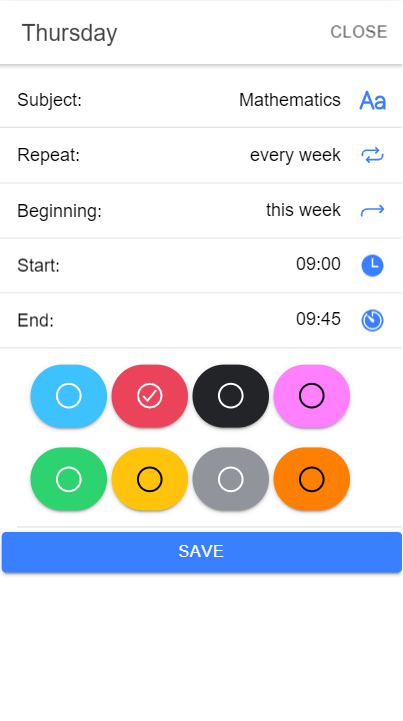
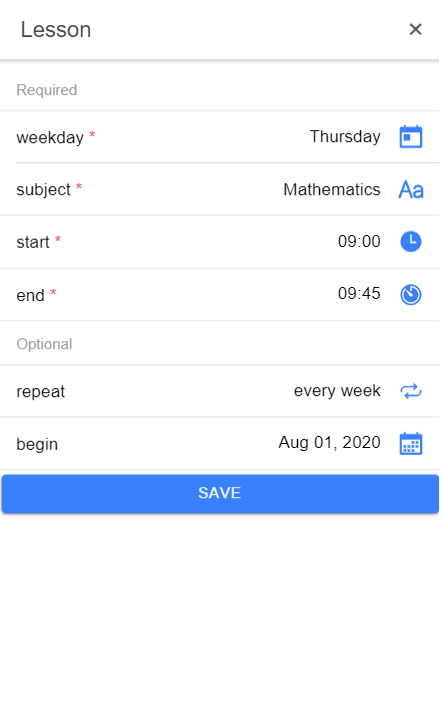
Extension to Major Update

diff --git a/src/app/modal/modal-slides/modal-slides.page.html b/src/app/modal/modal-slides/modal-slides.page.html
@@ -30,7 +30,7 @@
           <img src="assets/slides/add.png"/>
           <div class="ion-margin">
             <h2 class="ion-margin"><u>When adding a Lesson</u></h2>
-            <p class="ion-margin">Fill out the form, choose a lesson color and press save.</p>
+            <p class="ion-margin">Choose the day, subject & time frame then press save.</p>
           </div>
         </ion-row>
       </ion-grid>
@@ -42,7 +42,7 @@
           <img src="assets/slides/secondWeek.png"/>
           <div class="ion-margin">
             <h2 class="ion-margin"><u>Customize Schedule</u></h2>
-            <p class="ion-margin">When adding a lesson pick one of the <b>Repeat</b> options to repeat that lesson accordingly.</p>
+            <p class="ion-margin">When adding a lesson pick one of the <b>Repeat</b> options to repeat that lesson accordingly (optional).</p>
           </div>
         </ion-row>
       </ion-grid>
@@ -54,7 +54,7 @@
           <img src="assets/slides/repeat.png"/>
           <div class="ion-margin">
             <h2 class="ion-margin"><u>Starting Week</u></h2>
-            <p class="ion-margin">Pick the week when the lesson should initially <b>Start</b>.</p>
+            <p class="ion-margin">Pick a Date when the lesson should initially <b>Start</b> (optional).</p>
           </div>
         </ion-row>
       </ion-grid>

diff --git a/src/app/home/home.page.ts b/src/app/home/home.page.ts
@@ -80,7 +80,7 @@ export class HomePage{
           'startingDate': array.startingDate,
           'fromTime': array.timeFrame.fromTime,
           'toTime': array.timeFrame.toTime,
-          'lessonList': this.lessonList,
+          'lessonList': this.timetable.getAllLessons(),
           'edit': true
         }
       }
@@ -90,7 +90,7 @@ export class HomePage{
         component: ModalAddPage,
         cssClass: 'my-custom-modal-css',
         componentProps: {
-          'lessonList': this.lessonList,
+          'lessonList': this.timetable.getAllLessons(),
           'edit': false
         }
       }
@@ -158,7 +158,6 @@ export class HomePage{
             }
           }
         });
-        // this.lessonList = sortedArray;
         this.sortByGroup(sortedArray);
       });
     } else {
@@ -180,7 +179,6 @@ export class HomePage{
           }
         }
       });
-      // this.lessonList = sortedArray;
       this.sortByGroup(sortedArray);
     }
   }

diff --git a/src/app/camera/camera.page.html b/src/app/camera/camera.page.html
@@ -16,7 +16,7 @@
     <ion-item #folder *ngFor="let item of folderList" lines="full" (click)="navigateToImageFolder(item.subjectID, item.subject)" routerDirection="forward">    
       <ion-button *ngIf="deleteFolder" (click)="presentAlert(item.subject, item.subjectID)" color="dark" slot="start" size="small"><ion-icon  name="trash"></ion-icon></ion-button>
         <ion-thumbnail slot="start">
-          <img [src]="item.preview" onerror="this.onerror=null;this.src='assets/image-outline.svg';">
+          <img [src]="item.preview" onerror="this.onerror=null;this.src='assets/image-outline.svg';" >
         </ion-thumbnail>
       <ion-badge color="{{ item.color }}" slot="end">{{ item.count }}</ion-badge>
       <ion-label>{{ item.subject }}</ion-label>

diff --git a/src/app/settings/settings.page.ts b/src/app/settings/settings.page.ts
@@ -122,6 +122,7 @@ export class SettingsPage {
         "defaultTime": $event.detail.checked,
         "firstStart": true,
         "fullWeek": this.fullWeek,
+        "version": this.appVersionNumber
       }
       this.settingsService.updateSettings(settings);
     }
@@ -130,6 +131,7 @@ export class SettingsPage {
         "defaultTime": this.defaultTime,
         "firstStart": true,
         "fullWeek": $event.detail.checked,
+        "version": this.appVersionNumber
       }
       this.settingsService.updateSettings(settings);
     }

diff --git a/src/app/app.component.ts b/src/app/app.component.ts
@@ -37,8 +37,7 @@ export class AppComponent {
 
     this.settingsService.isReady.subscribe(() => {
       let settings = this.settingsService.getSettings();
-
-      if(settings.version == undefined) {
+      if(!settings.version) {
         this.updateStorageToCurrent();
         this.appVersion.getVersionNumber().then((version) => {
           this.settingsService.updateSettings({

diff --git a/src/app/service/image-storage.service.ts b/src/app/service/image-storage.service.ts
@@ -30,9 +30,10 @@ export class ImageStorageService {
   }
 
   getNewestImageBySubject(subjectID: number) {
+    let win: any = window;
     for (const image of this.images) {
-      if(image.subjectID == subjectID){
-        return image.src;
+      if(image.subjectID == subjectID) {
+        return win.Ionic.WebView.convertFileSrc(image.src);
       }
     }
   }

diff --git a/src/app/lesson/lesson.component.ts b/src/app/lesson/lesson.component.ts
@@ -18,7 +18,6 @@ export class LessonComponent {
   ) {}
 
   async presentAlert(emitObject: any) {
-    console.log(emitObject);
     const alertct = await this.alertController.create({
       header: emitObject.weekDay,
       subHeader: 'Configure',
